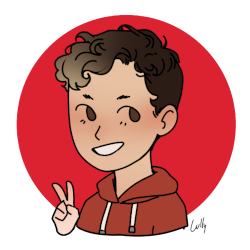
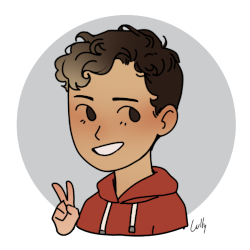
Add files via upload

diff --git a/index.html b/index.html
@@ -5,7 +5,13 @@
     <meta name="viewport" content="width=device-width, initial-scale=1.0">
     <title>social</title>
     <link rel="shortcut icon" href="img/logo.png" type="image/x-icon">
+<style>
+    body{
+        background-color: rgb(129, 127, 127);
+    }
+</style>    
 </head>
+
 <body>
     <h1>Minhas redes sociais</h1>
     <h2>Quem sou eu?</h2>
